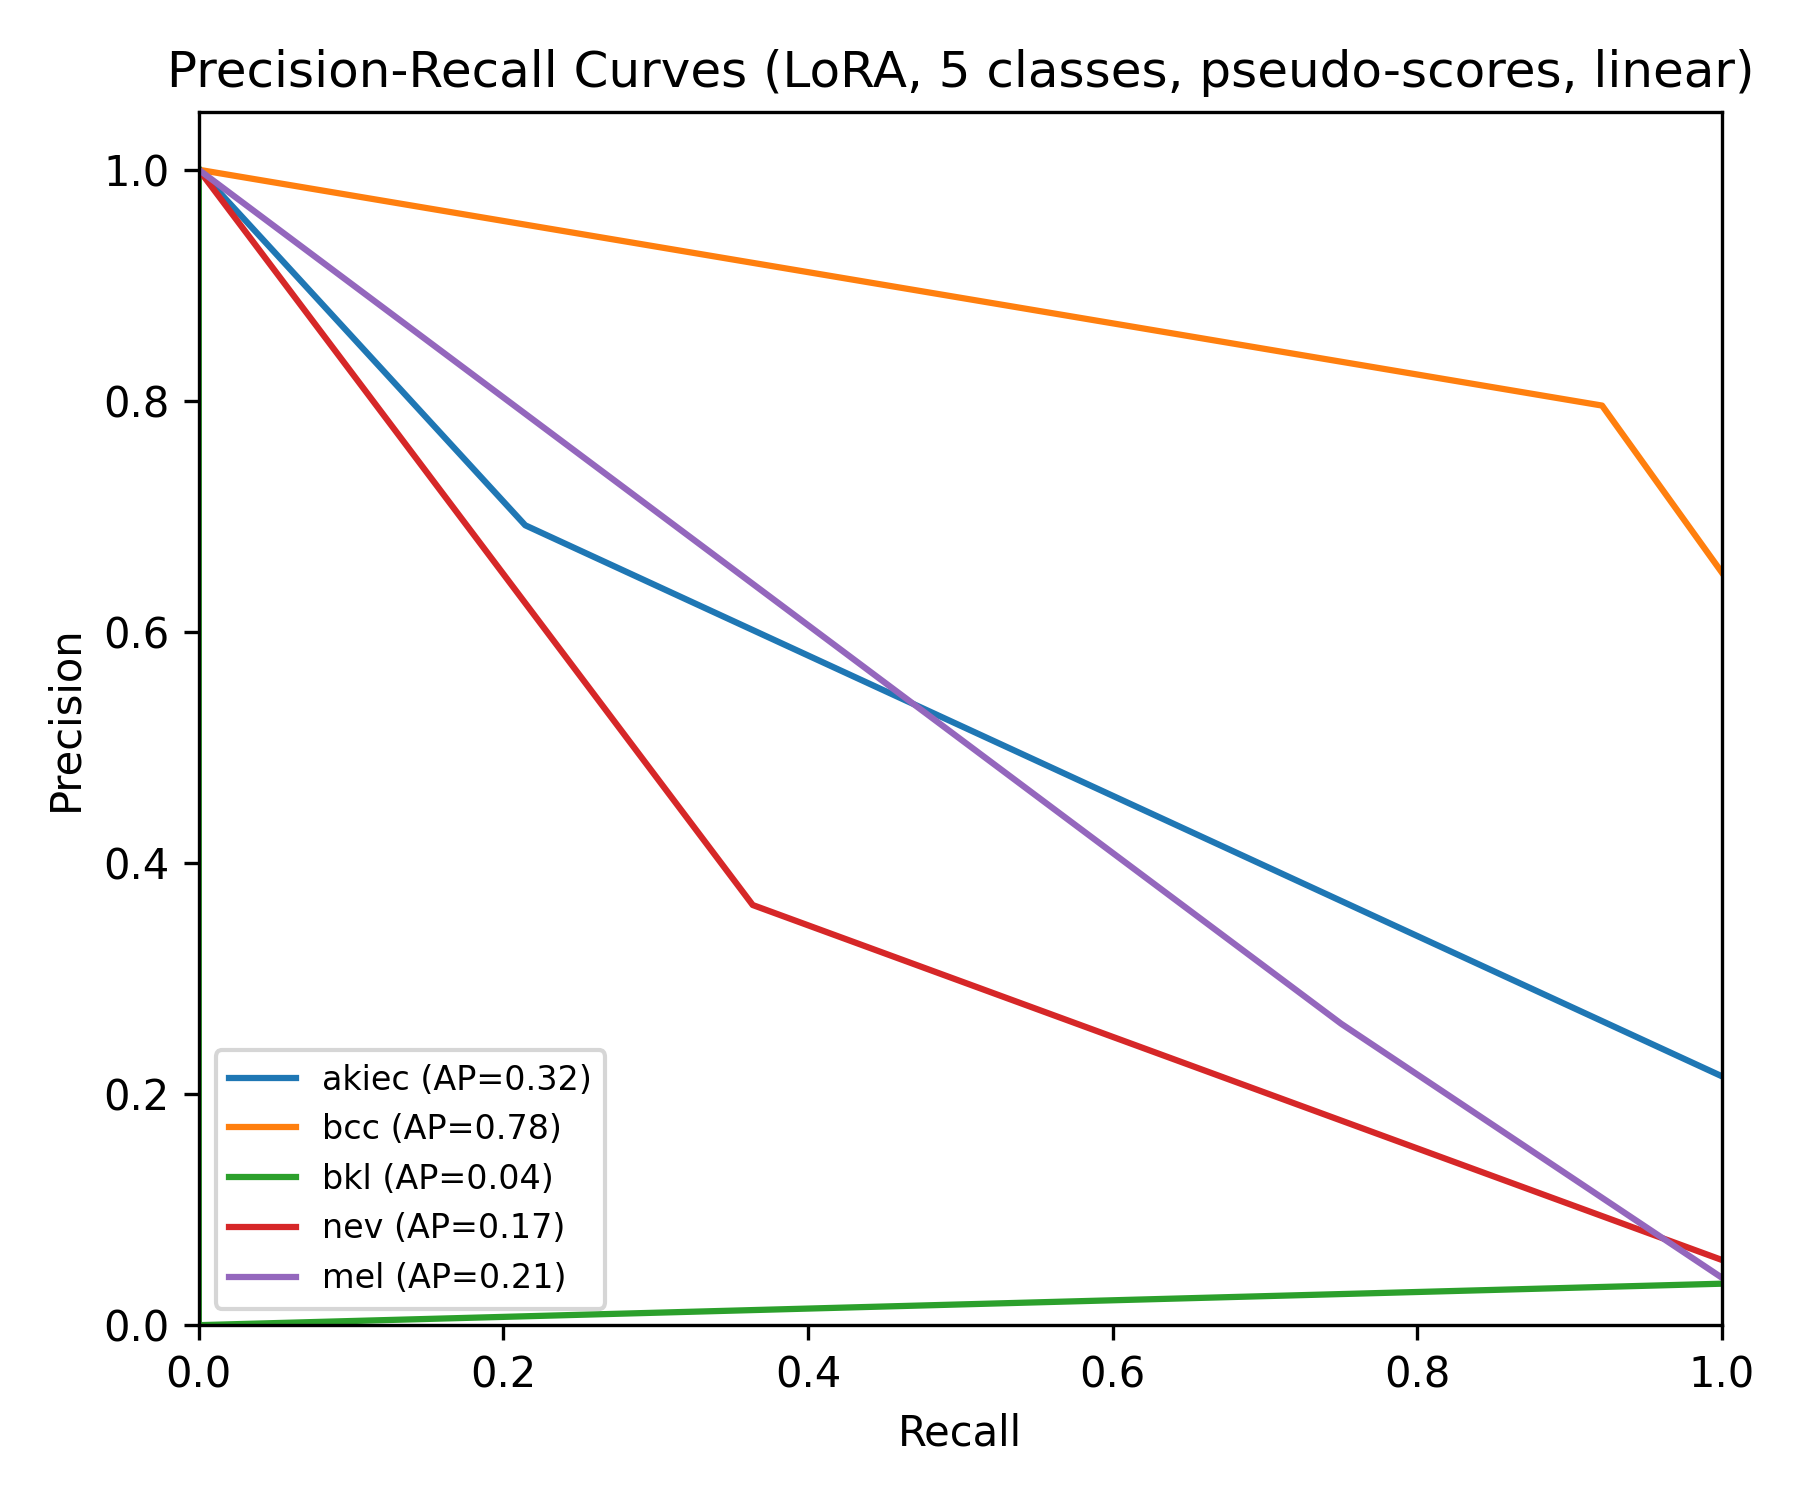
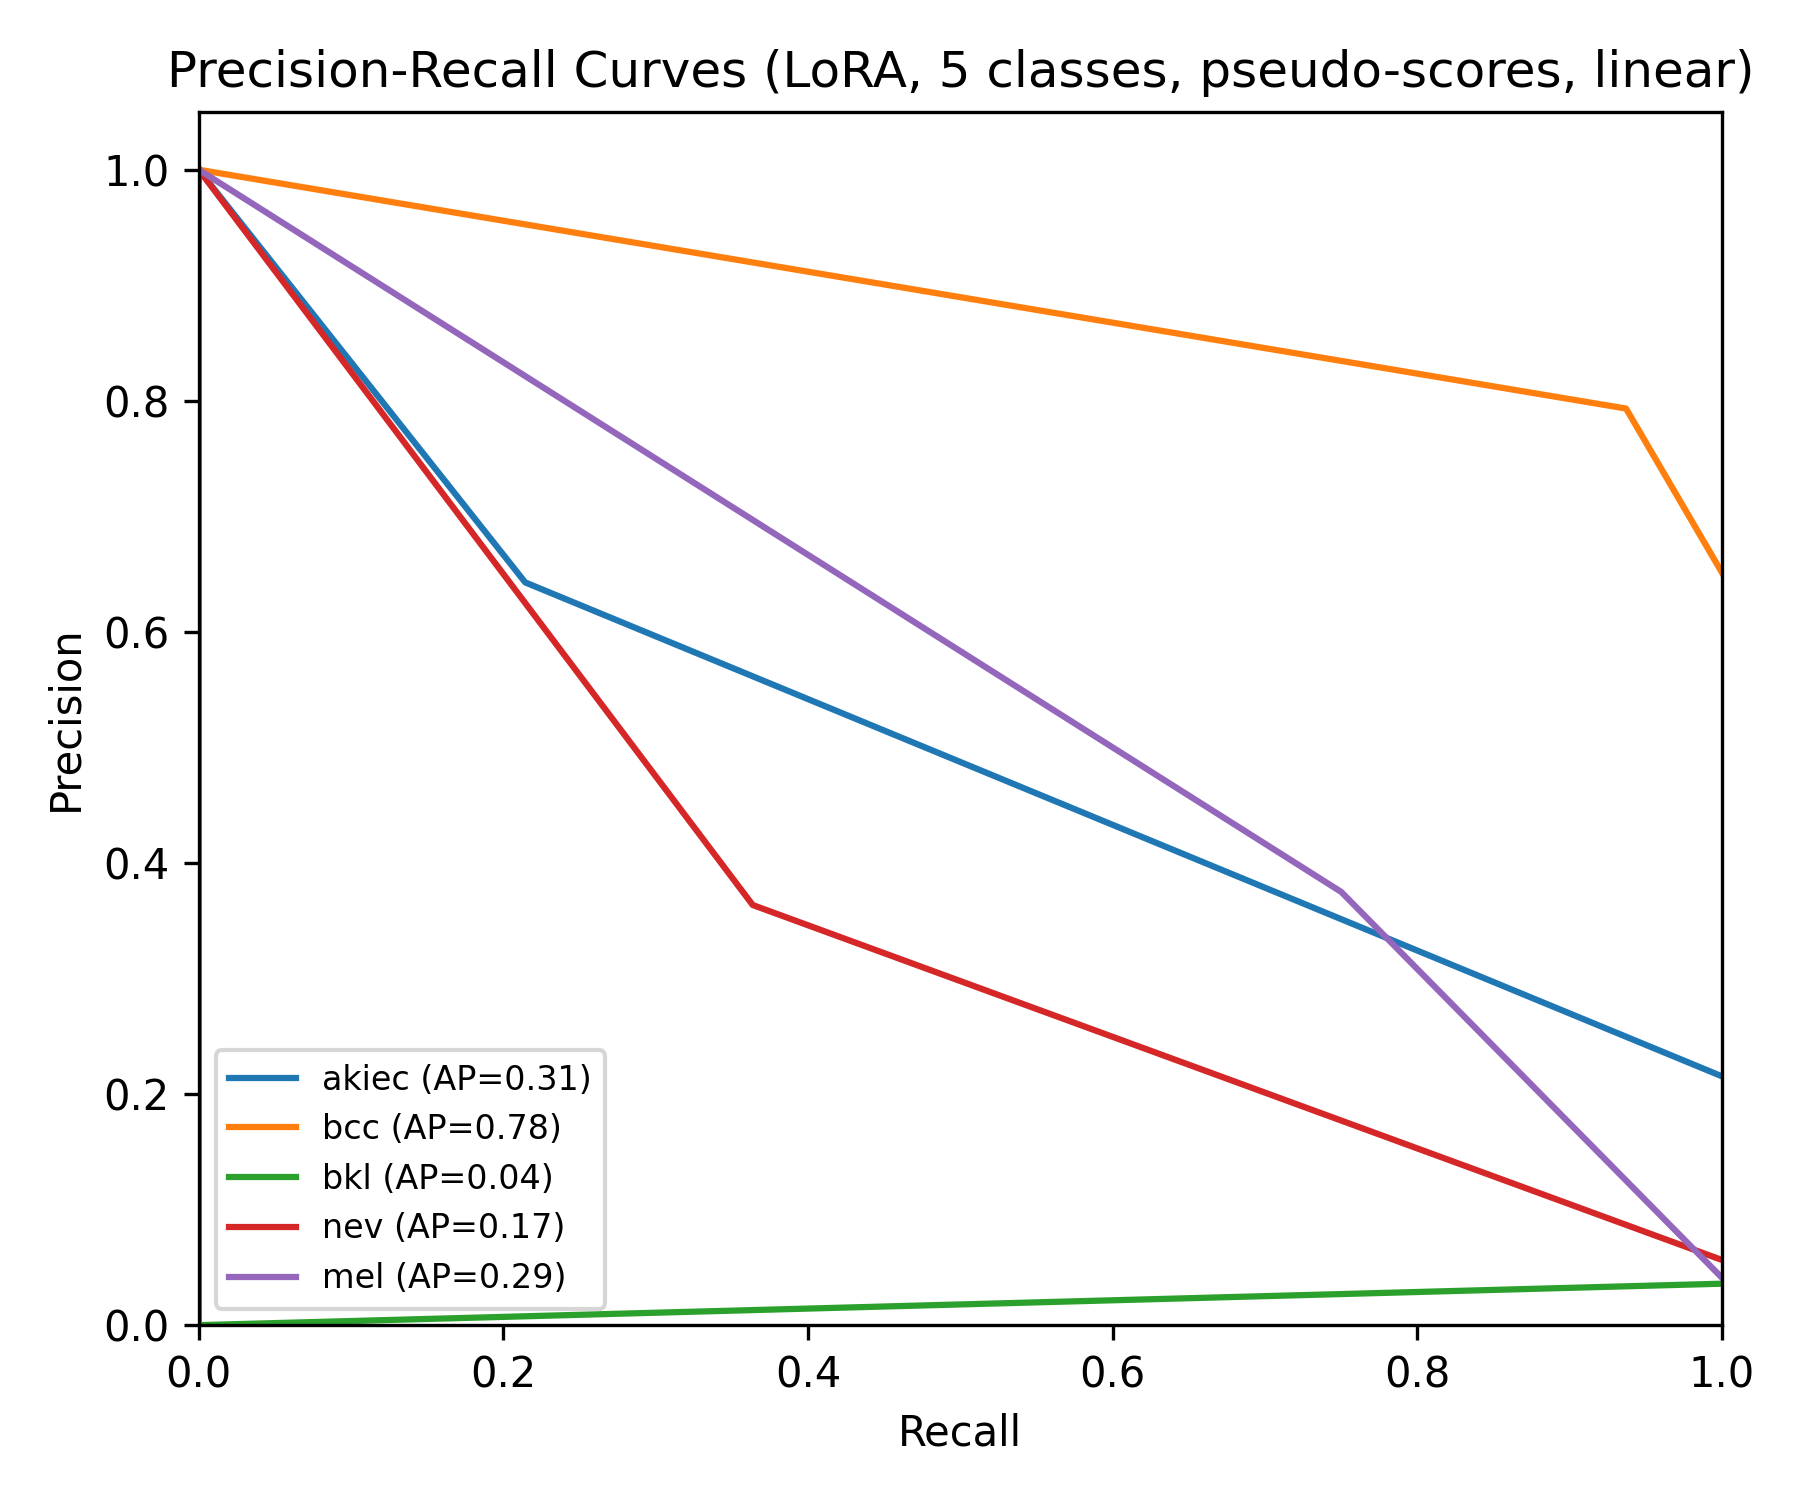
定稿

diff --git a/Lora_ResNet.py b/Lora_ResNet.py
@@ -71,7 +71,8 @@ COL_BLEEDING    = "出血"
 COL_ELEVATED    = "是否隆起"
 
 COL_TARGET      = "dx"
-ALLOWED_DX = ["akiec", "bcc", "bkl", "nev", "mel"]  # 固定顺序，后面要用 index
+# ✅ 现在只训练 4 类；bkl 合并到 nev
+ALLOWED_DX = ["akiec", "bcc", "nev", "mel"]  # 固定顺序，后面要用 index
 
 # ===== ResNet 先验控制开关 =====
 # 建议：先用 False 训练一版「不带 ResNet 先验」做对照，如果需要再改 True
@@ -288,12 +289,15 @@ def build_clinical_note(row) -> str:
 
 def normalize_dx(label: str) -> str:
     """
-    把 nv 统一成 nev，其余小写
+    把 nv 和 bkl 都并入 nev，其余小写
     """
     if not isinstance(label, str):
         return ""
     s = label.strip().lower()
     if s == "nv":
+        s = "nev"
+    # ✅ 不再单独管 bkl：训练时把 bkl 直接当作 nev
+    if s == "bkl":
         s = "nev"
     return s
 
@@ -324,6 +328,7 @@ def prepare_splits(
     if COL_TARGET not in df.columns:
         raise ValueError(f"CSV 中找不到标签列 {COL_TARGET!r}")
 
+    # 先做归一化，把 nv / bkl 都归到 nev，再只保留 ALLOWED_DX（4 类）
     df["dx"] = df[COL_TARGET].apply(normalize_dx)
     df = df[df["dx"].isin(ALLOWED_DX)].copy()
 
@@ -371,8 +376,8 @@ class DermMetadataDataset(TorchDataset):
     返回:
       - messages: system+user 提示词（含可选 ResNet 先验）
       - image: PIL 图像
-      - target_text: label code 文本 ('akiec' / 'bcc' / 'bkl' / 'nev' / 'mel')
-      - cls_label_idx: 0~4（在 ALLOWED_DX 里的索引，用于 5 类 softmax）
+      - target_text: label code 文本 ('akiec' / 'bcc' / 'nev' / 'mel')
+      - cls_label_idx: 0~3（在 ALLOWED_DX 里的索引，用于 softmax）
     """
     def __init__(
         self,
@@ -458,7 +463,7 @@ class DermMetadataDataset(TorchDataset):
             label = "nev"
 
         target_text = label  # 直接用 dx code 作为监督信号
-        cls_label_idx = ALLOWED_DX.index(label)  # 0~4
+        cls_label_idx = ALLOWED_DX.index(label)  # 0~3
 
         # 🔴 ResNet 视觉先验文本（已经做了置信度门控）
         resnet_prior = self._get_resnet_prior_text(image_id, image)
@@ -505,15 +510,20 @@ class DermMetadataDataset(TorchDataset):
                         "text": (
                             "You are an expert dermatology assistant specialized in dermoscopic images.\n"
                             "Your task is to classify a skin lesion based on a clinical note and a dermoscopic image.\n\n"
-                            "The dataset uses the following label codes:\n"
+                            "The original dataset uses five label codes:\n"
                             " - akiec = actinic keratoses / intraepithelial carcinoma of the skin (Bowen's disease),\n"
                             " - bcc   = basal cell carcinoma,\n"
-                            " - bkl   = benign keratosis-like lesions (including solar lentigines / seborrheic keratoses / lichen-planus like keratoses),\n"
+                            " - bkl   = benign keratosis-like lesions,\n"
                             " - nev   = melanocytic nevi,\n"
                             " - mel   = melanoma.\n\n"
-                            "When you see these codes, you should understand them as the corresponding disease entities above.\n\n"
+                            "In this training setup, benign keratosis-like lesions (bkl) are merged into 'nev', "
+                            "so the effective label set is:\n"
+                            " - akiec,\n"
+                            " - bcc,\n"
+                            " - nev (including bkl-type lesions),\n"
+                            " - mel.\n\n"
                             "IMPORTANT OUTPUT RULES:\n"
-                            "1. For each case, you MUST output exactly ONE label code from this set: {akiec, bcc, bkl, nev, mel}.\n"
+                            "1. For each case, you MUST output exactly ONE label code from this set: {akiec, bcc, nev, mel}.\n"
                             "2. Do NOT output the full disease names.\n"
                             "3. Do NOT output a list of all labels.\n"
                             "4. Do NOT add explanations, probabilities, or any other text.\n"
@@ -599,7 +609,7 @@ class MedGemmaCollator:
             labels[labels == pad_id] = -100
 
         model_inputs["labels"] = labels
-        # 新增：5 类分类标签（0~4），供 Trainer 使用
+        # 新增：4 类分类标签（0~3），供 Trainer 使用
         model_inputs["cls_labels"] = torch.tensor(cls_labels, dtype=torch.long)
 
         return model_inputs
@@ -638,6 +648,7 @@ def load_model_and_processor():
         model.config.use_cache = False
     model.gradient_checkpointing_enable()
 
+    # 先保持你原来的 LoRA 配置（如需再扩 target_modules 可以后续迭代）
     lora_config = LoraConfig(
         r=8,
         lora_alpha=16,
@@ -667,14 +678,14 @@ def load_model_and_processor():
     return model, processor
 
 
-# ===================== 6. Softmax5Trainer：强制 5 类 softmax 头 =====================
+# ===================== 6. SoftmaxTrainer：强制 4 类 softmax 头 =====================
 
 class Softmax5Trainer(Trainer):
     """
     自定义 Trainer：
     - 不用模型内置的 token-level loss
     - 从 logits + labels 中找到“第一个答案 token 的位置”
-    - 在该位置，只取 5 个标签对应的 token logit，做 5 类 softmax 交叉熵
+    - 在该位置，只取 N 个标签对应的 token logit，做 N 类 softmax 交叉熵
     """
     def __init__(
         self,
@@ -684,7 +695,7 @@ class Softmax5Trainer(Trainer):
         **kwargs,
     ):
         super().__init__(*args, **kwargs)
-        # 长度为 5 的 token id 列表，对应 ALLOWED_DX 顺序
+        # 长度为 N 的 token id 列表，对应 ALLOWED_DX 顺序
         self.label_token_ids = torch.LongTensor(label_token_ids)
         # 先只保存下来，真正用的时候再搬到对应 device
         self.class_weights = class_weights
@@ -707,8 +718,8 @@ class Softmax5Trainer(Trainer):
         # 取出每个样本在答案首 token 位置的 logits: (B, V)
         logits_first = logits[batch_idx, first_pos, :]  # (B, V)
 
-        # 只保留 5 个 label token 的 logits，得到 (B, 5)
-        logits_5 = logits_first[:, label_token_ids]
+        # 只保留 N 个 label token 的 logits，得到 (B, N)
+        logits_n = logits_first[:, label_token_ids]
 
         # 把权重搬到和 logits 同一个 device 上
         weight = None
@@ -717,7 +728,7 @@ class Softmax5Trainer(Trainer):
 
         # 这里直接用 functional.cross_entropy，避免 ce_loss 本身绑死在 CPU
         loss = F.cross_entropy(
-            logits_5,
+            logits_n,
             cls_labels.to(device),
             weight=weight,
             label_smoothing=0.1,
@@ -764,7 +775,7 @@ def main():
         resnet_device=device,
     )
 
-    # ===================== 关键：构造 5 个 label 的 token id =====================
+    # ===================== 关键：构造 N 个 label 的 token id =====================
     tokenizer = processor.tokenizer
     label_token_ids: List[int] = []
     for label in ALLOWED_DX:
@@ -772,7 +783,8 @@ def main():
         if not ids:
             raise ValueError(f"Label {label!r} 被 tokenizer 分成空 token 序列，异常")
         label_token_ids.append(ids[0])
-    print("🔧 5 类标签的首 token id:", label_token_ids)
+    print("🔧 有效类别:", ALLOWED_DX)
+    print("🔧 各类别首 token id:", label_token_ids)
 
     training_args = TrainingArguments(
         output_dir=OUTPUT_DIR,
@@ -794,12 +806,14 @@ def main():
         max_grad_norm=0.5,
     )
 
-    # === 类权重：按样本数 1/count 计算（保持你原来的写法） ===
+    # === 类权重：按归一化后的 dx 统计 ===
     df_train = train_hf.to_pandas()
-    dx_counts = df_train["dx"].value_counts().to_dict()
+    df_train[COL_TARGET] = df_train[COL_TARGET].apply(normalize_dx)
+    dx_counts = df_train[COL_TARGET].value_counts().to_dict()
     class_weights_list = []
     for cls in ALLOWED_DX:
         count = dx_counts.get(cls, 1)
+        # 用 1/sqrt(count) 略缓和极端不平衡
         class_weights_list.append(1.0 / math.sqrt(count))
     class_weights_tensor = torch.tensor(class_weights_list, dtype=torch.float32)
     # 可选归一化：平均权重为 1
@@ -821,7 +835,7 @@ def main():
     os.makedirs(OUTPUT_DIR, exist_ok=True)
     model.save_pretrained(OUTPUT_DIR)
     processor.save_pretrained(OUTPUT_DIR)
-    print(f"✅ LoRA+ResNetPrior+Softmax5 模型已保存到: {OUTPUT_DIR}")
+    print(f"✅ LoRA+ResNetPrior+SoftmaxN 模型已保存到: {OUTPUT_DIR}")
     print(f"✅ 评估用的 test CSV 在: {TEST_CSV}")
 
 
